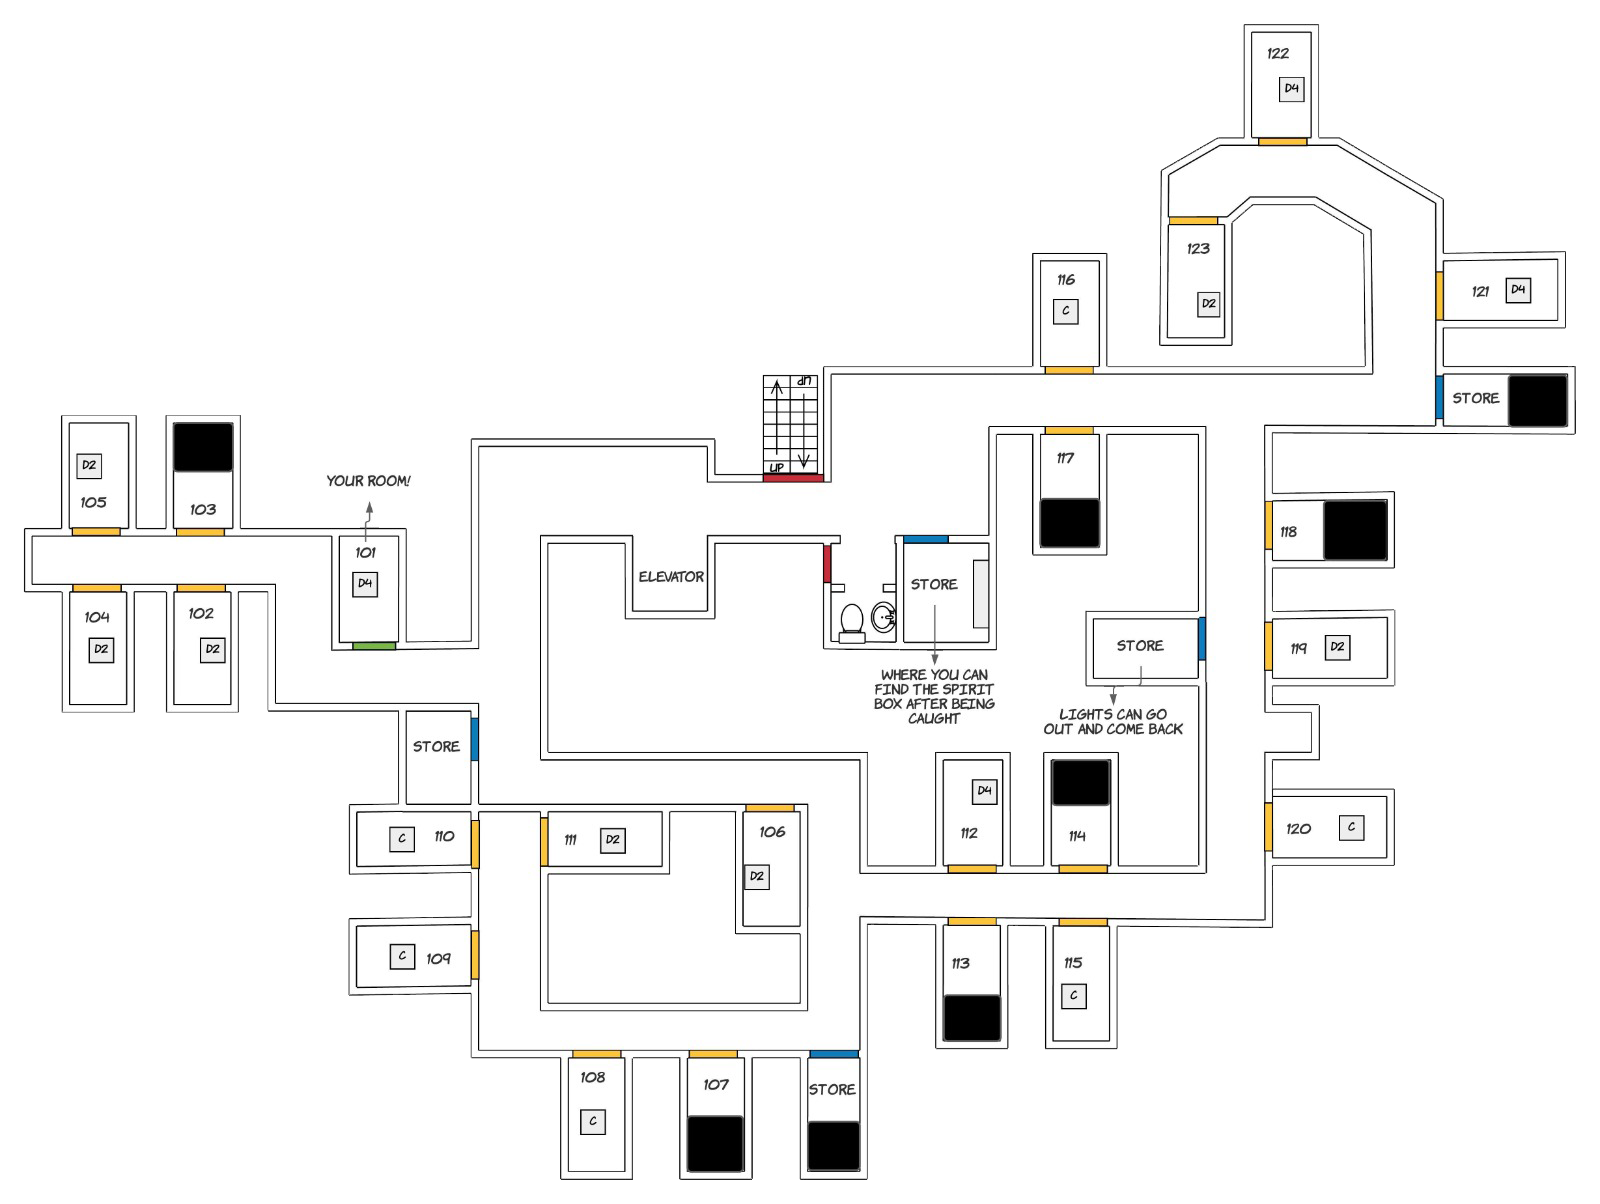
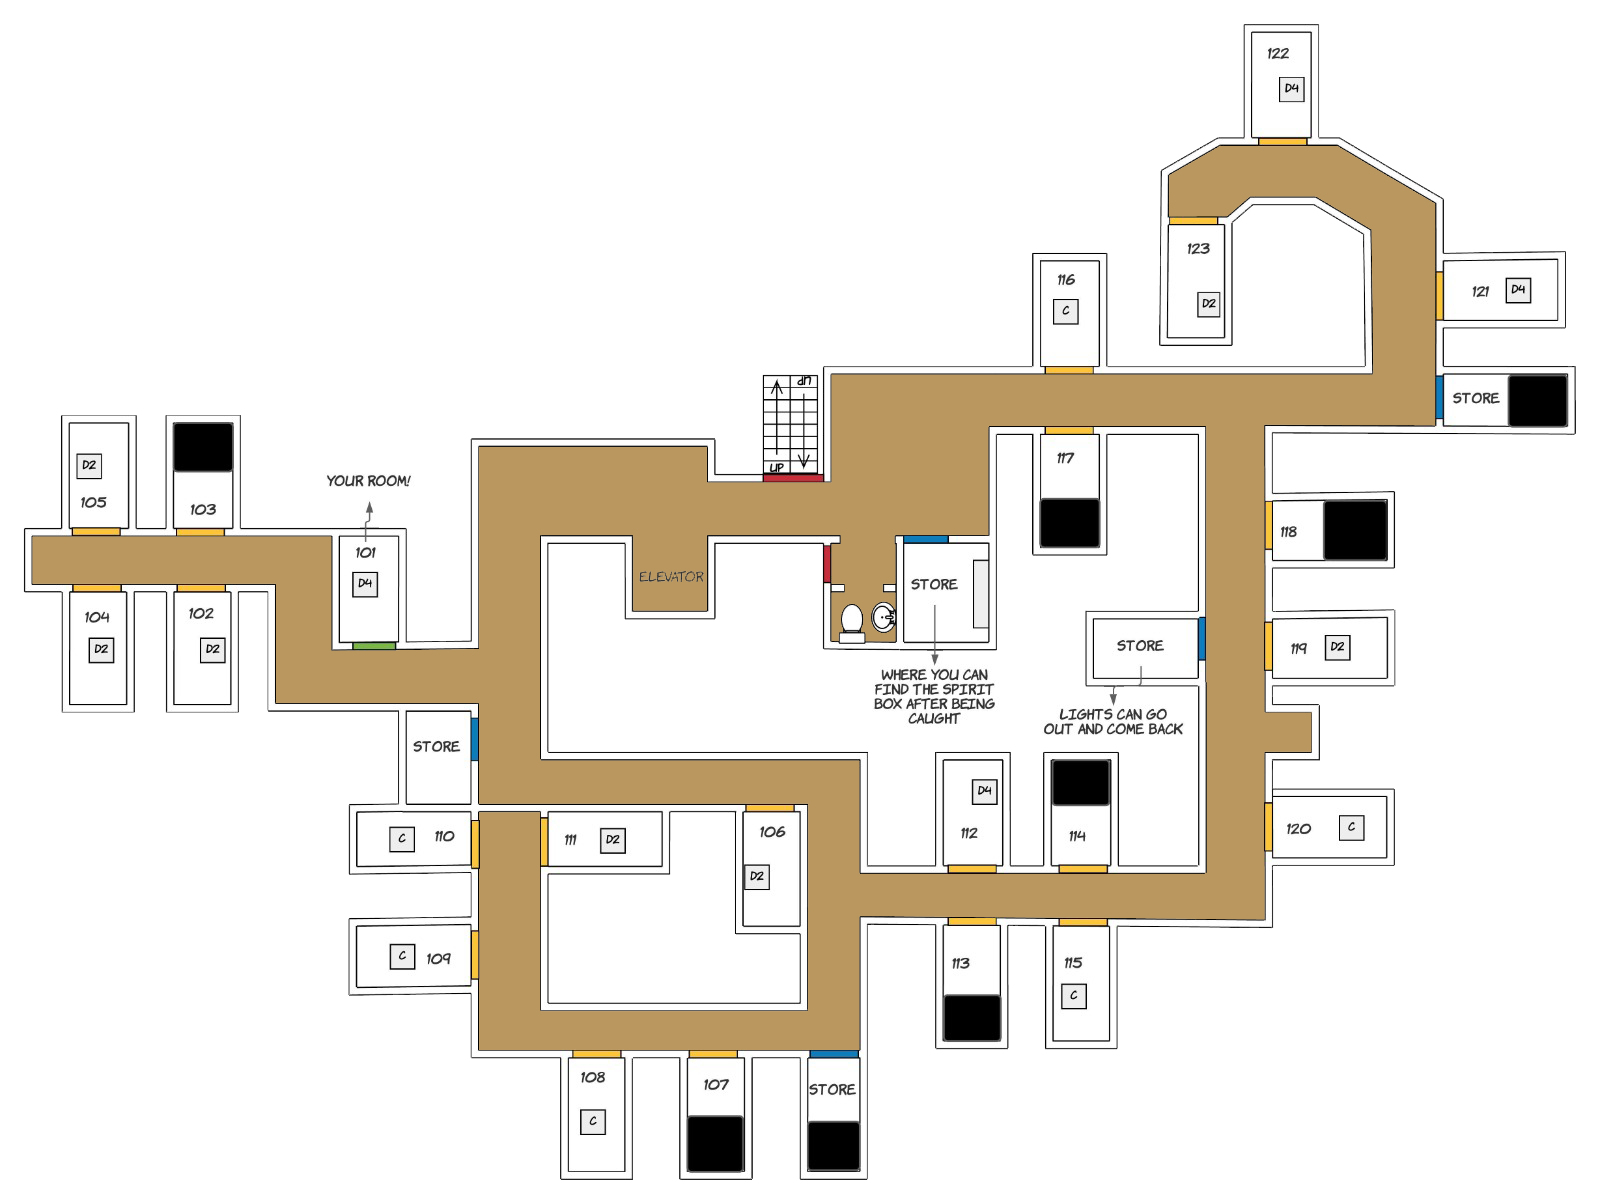
Add walls colors to floors maps, fix opacity, remove positionlabel

Changed region(s): [[0.0, 0.1229, 0.9062, 0.8912]]

diff --git a/src/radar.ts b/src/radar.ts
@@ -92,13 +92,15 @@ export function initRadar() {
       }
     }
 
-    const moveCharacter = (character: HTMLElement, xpos: number, ypos: number, dir: 'N' | 'S' | 'W' | 'E', speed) => {
+    const moveCharacter = (character: HTMLElement, xpos: number | 'stairs', ypos: number | 'stairs', dir: 'N' | 'S' | 'W' | 'E', speed) => {
       const floorMap = floors[window.floor - 2]
       if (!floorMap) {
         return
       }
 
-      const point = floorMap.points.find(point => point.xpos === xpos && point.ypos === ypos)
+      const point = xpos === 'stairs' || ypos === 'stairs' 
+        ? floorMap.stairs
+        : floorMap.points.find(point => point.xpos === xpos && point.ypos === ypos)
       if (!point) {
         console.error('Couldn\'t find point with coordinates' + `${xpos},${ypos}`)
         character.style.transition = 'left 0s, top 0s'
@@ -133,8 +135,7 @@ export function initRadar() {
 
       if (window.inroom === 0) {
         if (window.stairs === 2) {
-          const { x, y } = floorMap.stairs
-          moveCharacter(maya, x, y, 'N', skipTransition ? '0s' : '1s')
+          moveCharacter(maya, 'stairs', 'stairs', 'N', skipTransition ? '0s' : '1s')
         } else {
           const xpos = window.pos[0]
           const ypos = window.pos[1]
@@ -262,7 +263,7 @@ export function initRadar() {
     }
     
     const checkIfJimmyInRoomWithMaya = () => {
-      if(window.jhinroom === window.inroom) {
+      if (window.inroom !== 0 && window.jhinroom === window.inroom) {
         maya.style.opacity = '0.1'
       } else {
         maya.style.opacity = '1'

diff --git a/src/utils/index.ts b/src/utils/index.ts
@@ -23,18 +23,18 @@ export function onPropertyChange(name: string, callback: () => void) {
 }
 
 // DISPLAY X/Y POSITION on screen:
-const positionlabel = document.createElement('span')
-positionlabel.id = 'position-label'
-positionlabel.style.zIndex = '1000'
-positionlabel.style.pointerEvents = 'none'
-positionlabel.style.position = 'absolute'
-positionlabel.style.top = '50%'
-positionlabel.style.left = '50%'
-positionlabel.style.transform = 'translate(-50%, -50%)'
-positionlabel.style.font = 'bold 196px monospace'
-positionlabel.style.color = 'white'
-positionlabel.style.textShadow = '0 0 10px black'
-document.body.appendChild(positionlabel)
-setInterval(() => {
-  positionlabel.innerText = `${window.pos[0]},${window.pos[1]}`
-}, 100)
+// const positionlabel = document.createElement('span')
+// positionlabel.id = 'position-label'
+// positionlabel.style.zIndex = '1000'
+// positionlabel.style.pointerEvents = 'none'
+// positionlabel.style.position = 'absolute'
+// positionlabel.style.top = '50%'
+// positionlabel.style.left = '50%'
+// positionlabel.style.transform = 'translate(-50%, -50%)'
+// positionlabel.style.font = 'bold 196px monospace'
+// positionlabel.style.color = 'white'
+// positionlabel.style.textShadow = '0 0 10px black'
+// document.body.appendChild(positionlabel)
+// setInterval(() => {
+//   positionlabel.innerText = `${window.pos[0]},${window.pos[1]}`
+// }, 100)
